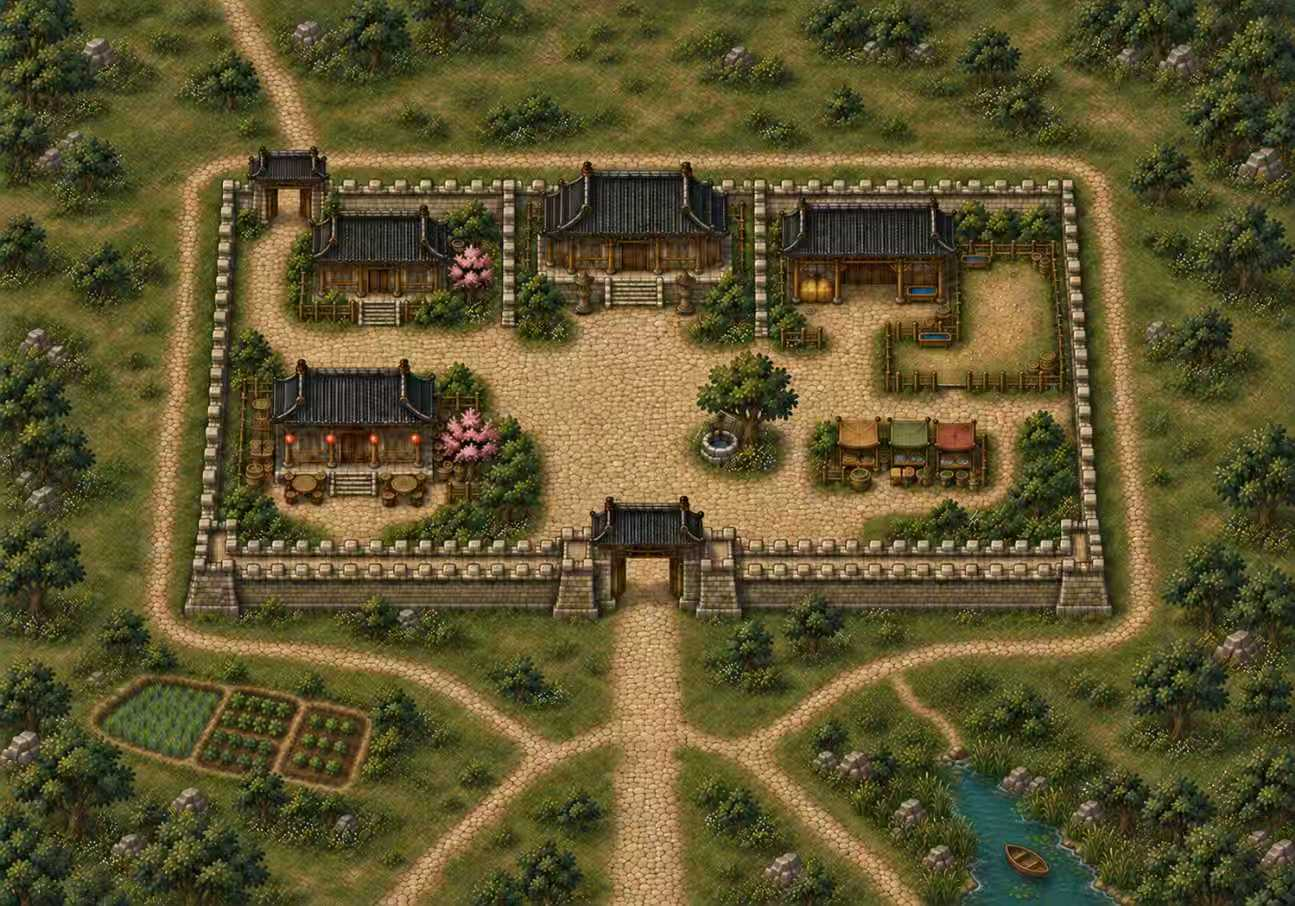
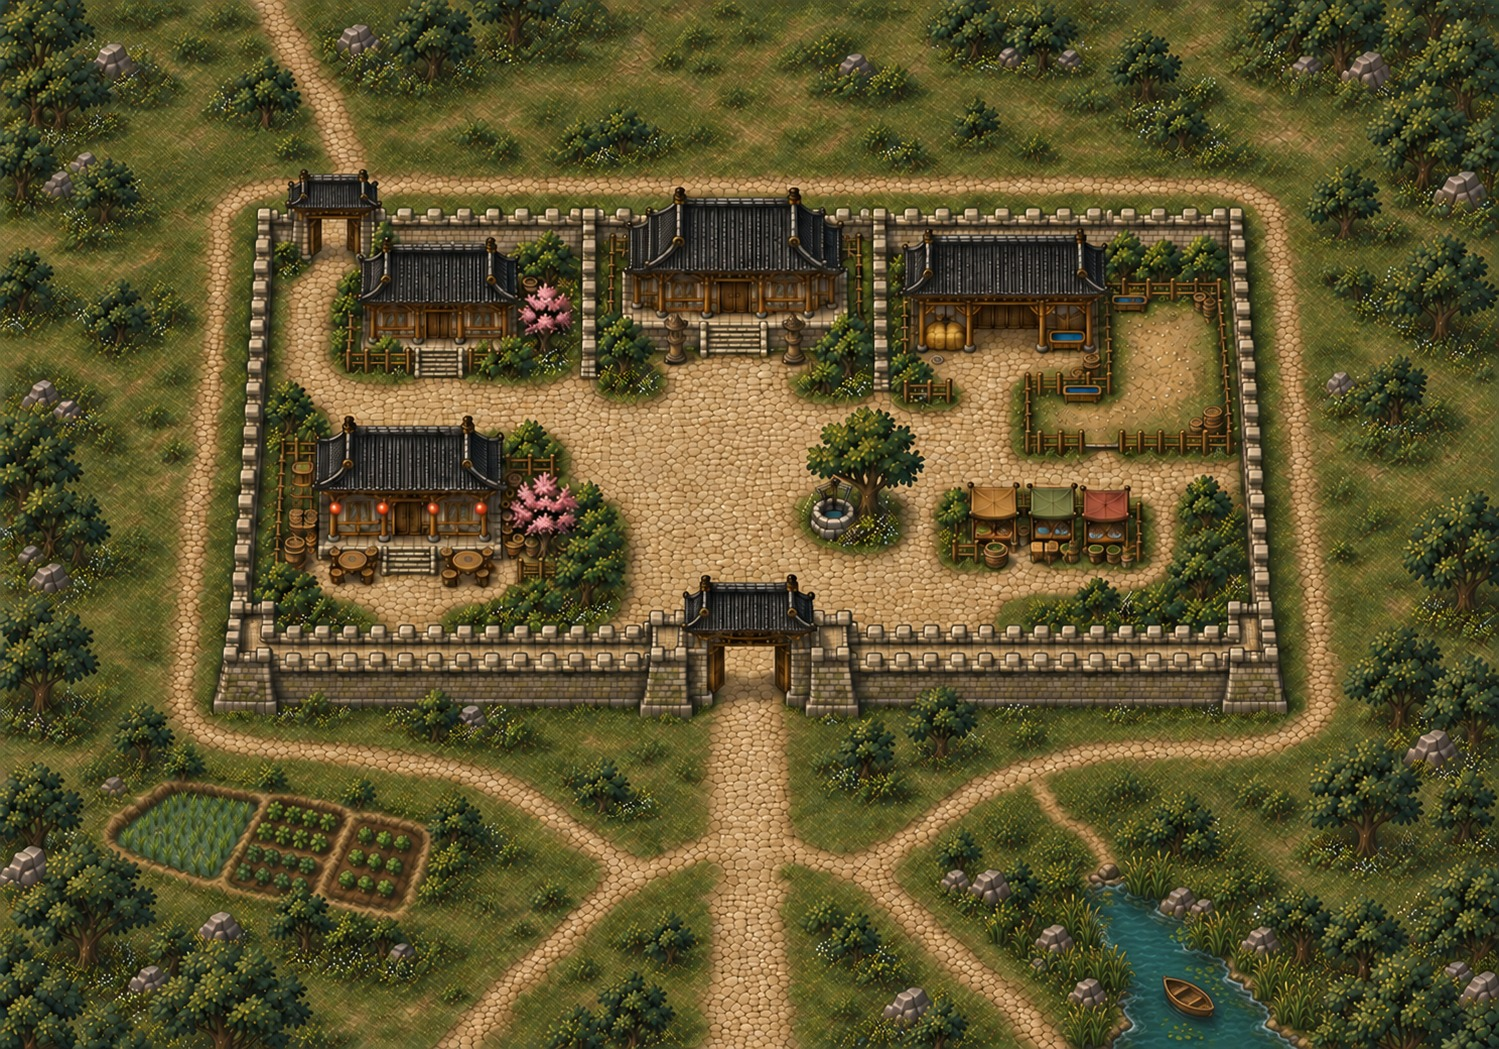
소패성 배경 이미지를 고해상도 버전으로 교체
이전에 받은 이미지(1295x906)가 다른 지도 배경(~1500x1050)보다 작아서
확대 시 흐려 보이던 문제 - 사용자가 zip으로 다시 준 원본(1499x1049,
다른 지도들과 동일한 해상도)으로 교체했다. 구도는 기존과 동일해서
이미 맞춰둔 타일맵(성벽/건물/NPC 좌표)은 그대로 유지된다 - 새 이미지
위에 기존 타일 오버레이를 그려서 정렬이 그대로 맞는 것과, 실제
게임에서 훨씬 또렷하게 보이는 것까지 확인.

버전 v193.

Claude-Session: https://claude.ai/code/session_01Ks2N2nxAzhVC99dxUfpqD7

diff --git a/index.html b/index.html
@@ -5,7 +5,7 @@
 <meta name="viewport" content="width=device-width, initial-scale=1.0, viewport-fit=cover">
 <title>어린이 삼국지 — 챕터1: 도원결의</title>
 <link rel="stylesheet" href="https://fonts.googleapis.com/css2?family=Song+Myung&family=Noto+Sans+KR:wght@400;500;600;700&display=swap">
-<link rel="stylesheet" href="css/style.css?v=20260917-192">
+<link rel="stylesheet" href="css/style.css?v=20260917-193">
 </head>
 <body>
 
@@ -552,21 +552,21 @@
 <div id="center-alert" class="hidden"></div>
 <div id="build-version" aria-hidden="true"></div>
 
-<script src="js/data/roster.js?v=20260917-192"></script>
-<script src="js/data/skills.js?v=20260917-192"></script>
-<script src="js/data/strategies.js?v=20260917-192"></script>
-<script src="js/data/maps.js?v=20260917-192"></script>
-<script src="js/data/worldmap.js?v=20260917-192"></script>
-<script src="js/data/story.js?v=20260917-192"></script>
-<script src="js/engine/state.js?v=20260917-192"></script>
-<script src="js/engine/status-effects.js?v=20260917-192"></script>
-<script src="js/engine/battle-events.js?v=20260917-192"></script>
-<script src="js/engine/dialogue.js?v=20260917-192"></script>
-<script src="js/engine/battle.js?v=20260917-192"></script>
-<script src="js/engine/battle-vfx.js?v=20260917-192"></script>
-<script src="js/engine/field-assets.js?v=20260917-192"></script>
-<script src="js/engine/mapview.js?v=20260917-192"></script>
-<script src="js/main.js?v=20260917-192"></script>
+<script src="js/data/roster.js?v=20260917-193"></script>
+<script src="js/data/skills.js?v=20260917-193"></script>
+<script src="js/data/strategies.js?v=20260917-193"></script>
+<script src="js/data/maps.js?v=20260917-193"></script>
+<script src="js/data/worldmap.js?v=20260917-193"></script>
+<script src="js/data/story.js?v=20260917-193"></script>
+<script src="js/engine/state.js?v=20260917-193"></script>
+<script src="js/engine/status-effects.js?v=20260917-193"></script>
+<script src="js/engine/battle-events.js?v=20260917-193"></script>
+<script src="js/engine/dialogue.js?v=20260917-193"></script>
+<script src="js/engine/battle.js?v=20260917-193"></script>
+<script src="js/engine/battle-vfx.js?v=20260917-193"></script>
+<script src="js/engine/field-assets.js?v=20260917-193"></script>
+<script src="js/engine/mapview.js?v=20260917-193"></script>
+<script src="js/main.js?v=20260917-193"></script>
 <!-- 지금 브라우저가 실제로 어느 버전을 불러왔는지 눈으로 바로 확인하기
      위한 배지 - 캐시나 인앱 브라우저가 옛날 파일을 물고 있는지를 "아마
      그럴 것"이라고 추측하는 대신 직접 확인할 수 있게 한다. 이 시점에는
